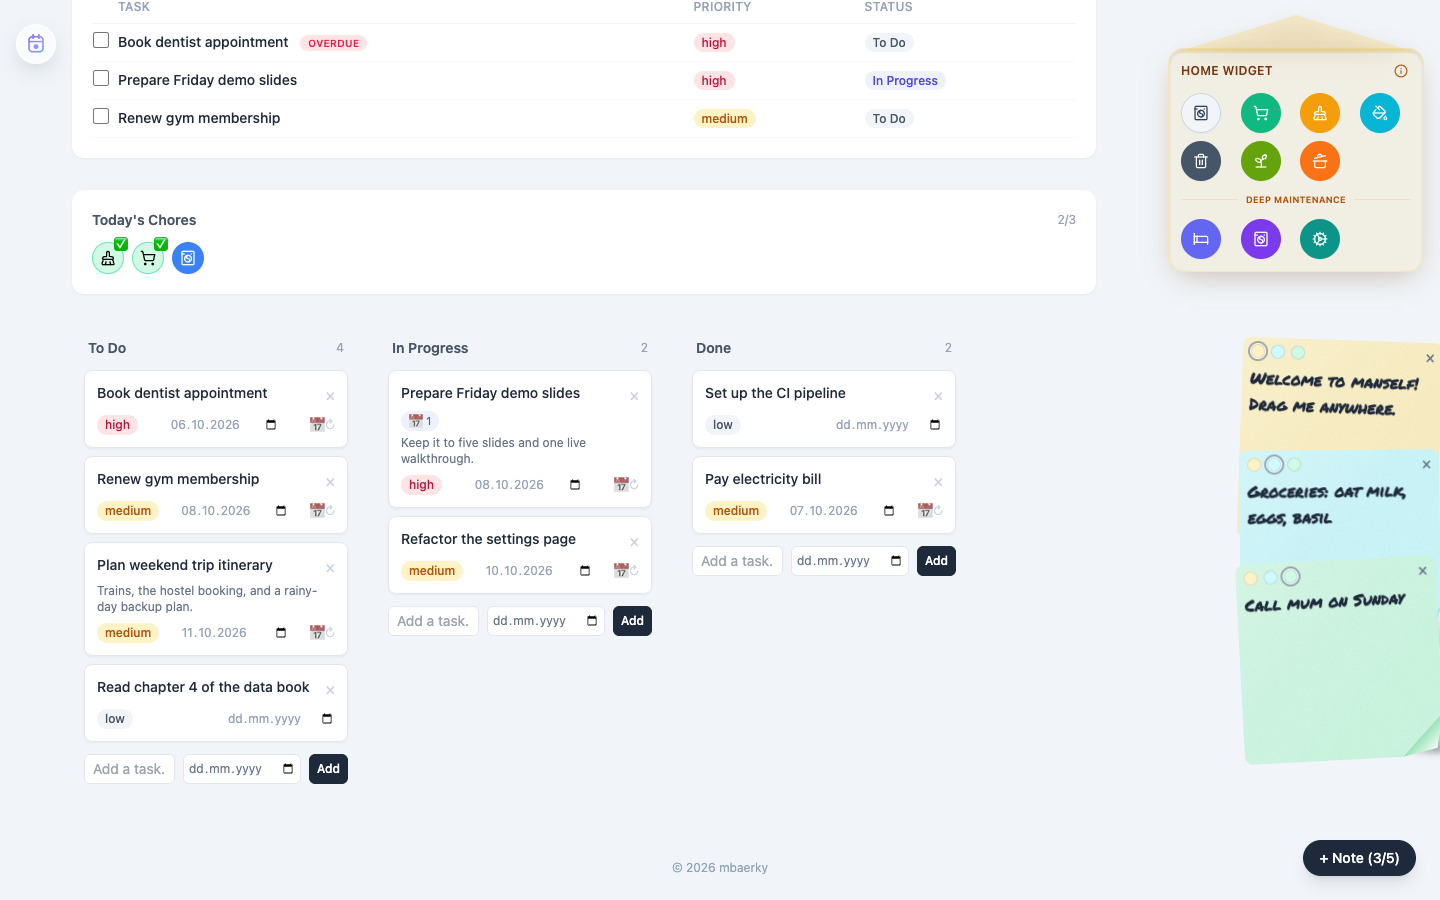
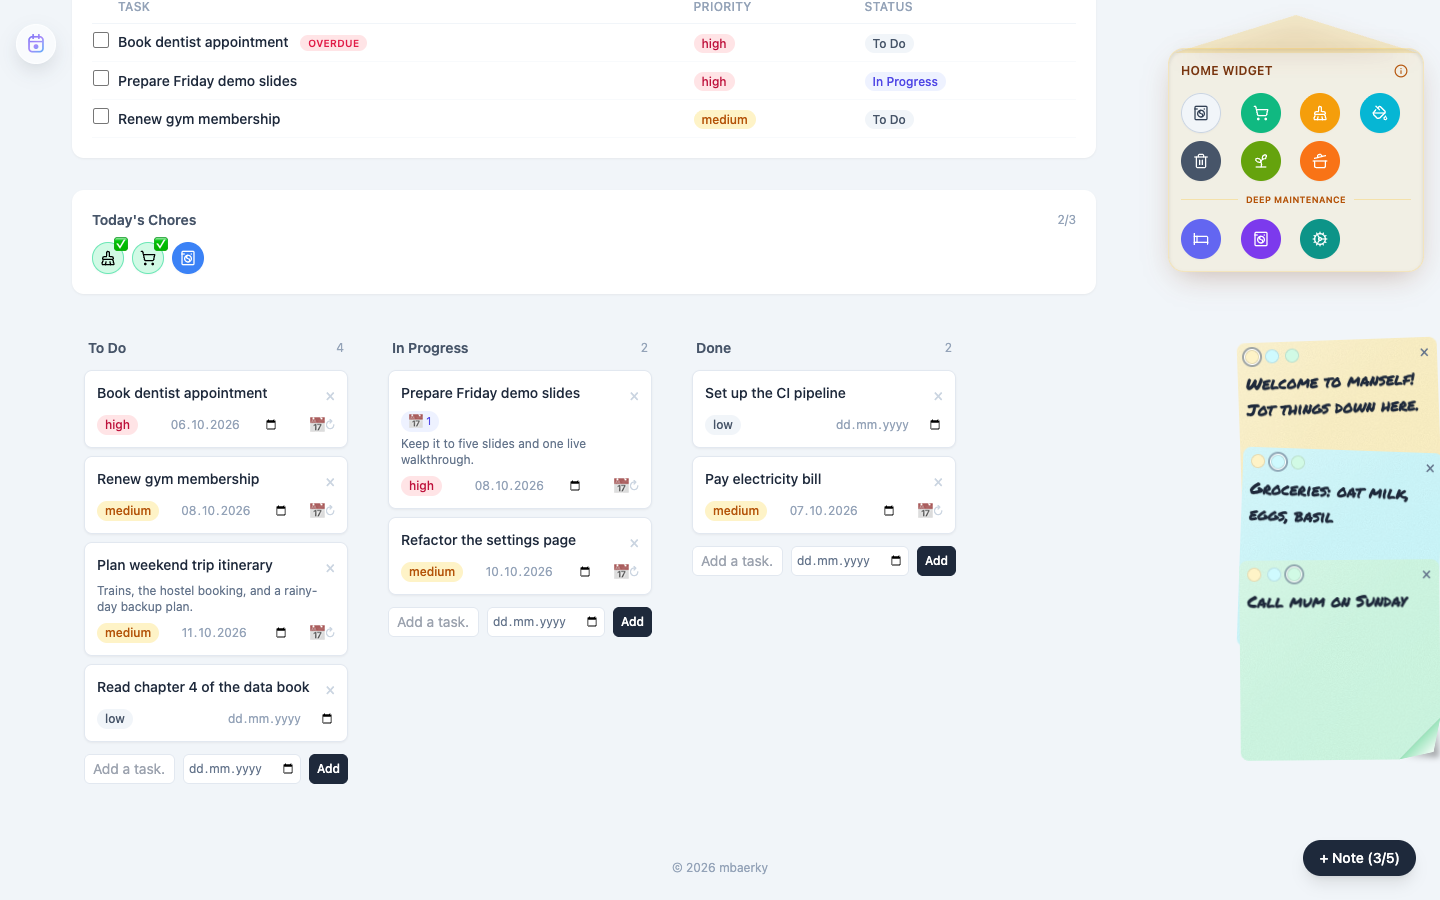
Keep sticky notes from covering the page on screens under 1440px (#64)
Floating notes are pinned to the right edge, which only has room beside the
centred content from 1440px up. Below that they now use the bottom-sheet list
that phones already had. The demo's welcome note no longer says 'drag me'.
README and screenshots updated.

diff --git a/frontend/src/components/dashboard/StickyNotesManager.vue b/frontend/src/components/dashboard/StickyNotesManager.vue
@@ -7,15 +7,19 @@ import { useConfirm } from '../../composables/useConfirm.js';
 const noteStore = useNoteStore();
 const { confirm } = useConfirm();
 
-// Free-floating positioned notes don't fit a phone screen - below Tailwind's
-// sm breakpoint (640px, unmodified default) notes render as a stacked list
-// in a bottom sheet instead (see StickyNote.vue's `stacked` prop).
-const isMobile = ref(false);
+// Free-floating notes sit on top of the page, so they only make sense where
+// there is empty space for them: a 200px note against the right edge clears
+// the (up to 1024px wide, centred) content from 1440px up. Below that - phones,
+// tablets and small laptops - notes are a stacked list in a bottom sheet
+// instead (see StickyNote.vue's `stacked` prop), so nothing is ever covered.
+const FLOATING_NOTES_MIN_WIDTH = 1440;
+
+const isSheetMode = ref(false);
 const panelOpen = ref(false);
 let mql = null;
 
-function updateIsMobile(event) {
-  isMobile.value = event.matches;
+function updateSheetMode(event) {
+  isSheetMode.value = event.matches;
 }
 
 // An empty note has nothing to lose, so it goes without asking.
@@ -33,18 +37,18 @@ async function requestRemoveNote(note) {
 
 onMounted(() => {
   noteStore.fetchNotes();
-  mql = window.matchMedia('(max-width: 639.98px)');
-  isMobile.value = mql.matches;
-  mql.addEventListener('change', updateIsMobile);
+  mql = window.matchMedia(`(max-width: ${FLOATING_NOTES_MIN_WIDTH - 0.02}px)`);
+  isSheetMode.value = mql.matches;
+  mql.addEventListener('change', updateSheetMode);
 });
 
-onUnmounted(() => mql?.removeEventListener('change', updateIsMobile));
+onUnmounted(() => mql?.removeEventListener('change', updateSheetMode));
 </script>
 
 <template>
   <Teleport to="body">
     <!-- Desktop/tablet: free-floating, draggable notes -->
-    <div v-if="!isMobile" class="sticky-notes-layer">
+    <div v-if="!isSheetMode" class="sticky-notes-layer">
       <button
         type="button"
         class="sticky-notes-layer__add"
@@ -67,7 +71,7 @@ onUnmounted(() => mql?.removeEventListener('change', updateIsMobile));
       />
     </div>
 
-    <!-- Mobile: stacked bottom sheet, no free positioning/dragging -->
+    <!-- Narrower screens: stacked bottom sheet, no free positioning/dragging -->
     <template v-else>
       <button type="button" class="sticky-notes-toggle" @click="panelOpen = !panelOpen">
         🗒 Notes ({{ noteStore.notes.length }}/5)

diff --git a/frontend/src/components/dashboard/StickyNotesManager.test.js b/frontend/src/components/dashboard/StickyNotesManager.test.js
@@ -1,0 +1,51 @@
+import { afterEach, beforeEach, describe, expect, it, vi } from 'vitest';
+import { flushPromises, mount } from '@vue/test-utils';
+import { createPinia, setActivePinia } from 'pinia';
+
+const list = vi.hoisted(() => vi.fn());
+vi.mock('../../services/noteService.js', () => ({
+  noteService: { list, create: vi.fn(), update: vi.fn(), remove: vi.fn() },
+}));
+
+const { default: StickyNotesManager } = await import('./StickyNotesManager.vue');
+
+const NOTES = [{ id: 1, text: 'hello', color: 'yellow', positionX: 9999, positionY: 340, zIndex: 1 }];
+
+// jsdom has no matchMedia; fake one that answers for a given viewport width.
+function setViewportWidth(width) {
+  vi.stubGlobal('matchMedia', (query) => {
+    const max = Number(/max-width:\s*([\d.]+)px/.exec(query)?.[1]);
+    return { matches: width <= max, addEventListener: () => {}, removeEventListener: () => {} };
+  });
+}
+
+async function mountManager() {
+  const wrapper = mount(StickyNotesManager, { global: { stubs: { teleport: true } } });
+  await flushPromises();
+  return wrapper;
+}
+
+beforeEach(() => {
+  setActivePinia(createPinia());
+  list.mockResolvedValue(NOTES);
+});
+
+afterEach(() => vi.unstubAllGlobals());
+
+describe('StickyNotesManager layout', () => {
+  it('floats the notes freely on screens 1440px wide and up', async () => {
+    setViewportWidth(1440);
+    const wrapper = await mountManager();
+
+    expect(wrapper.find('.sticky-notes-layer').exists()).toBe(true);
+    expect(wrapper.find('.sticky-notes-toggle').exists()).toBe(false);
+  });
+
+  it.each([390, 1024, 1366, 1439])('uses the bottom-sheet list at %ipx so notes never cover the page', async (width) => {
+    setViewportWidth(width);
+    const wrapper = await mountManager();
+
+    expect(wrapper.find('.sticky-notes-layer').exists()).toBe(false);
+    expect(wrapper.find('.sticky-notes-toggle').exists()).toBe(true);
+  });
+});

diff --git a/backend/src/services/demo.service.js b/backend/src/services/demo.service.js
@@ -71,7 +71,7 @@ function buildEvents(demoSlidesTaskId) {
 // position to the viewport, so this pins the pile to the right-hand edge at
 // any screen width instead of covering the welcome message in the middle.
 const NOTES = [
-  { text: 'Welcome to manself! Drag me anywhere.', color: 'yellow', positionX: 9999, positionY: 340 },
+  { text: 'Welcome to manself! Jot things down here.', color: 'yellow', positionX: 9999, positionY: 340 },
   { text: 'Groceries: oat milk, eggs, basil', color: 'cyan', positionX: 9999, positionY: 450 },
   { text: 'Call mum on Sunday', color: 'green', positionX: 9999, positionY: 560 },
 ];

diff --git a/frontend/src/components/dashboard/StickyNote.vue b/frontend/src/components/dashboard/StickyNote.vue
@@ -4,7 +4,7 @@ import { usePointerDrag } from '../../composables/usePointerDrag.js';
 
 const props = defineProps({
   note: { type: Object, required: true },
-  // True on narrow viewports, where notes render in a stacked list instead
+  // True below 1440px, where notes render in a stacked list instead
   // of free-floating - see StickyNotesManager.vue. Stacked notes don't
   // drag, tilt, or track z-index; there's nothing to overlap in a list.
   stacked: { type: Boolean, default: false },

diff --git a/frontend/src/views/LandingView.vue b/frontend/src/views/LandingView.vue
@@ -30,7 +30,7 @@ const features = [
   {
     icon: StickyNote,
     title: 'Sticky notes',
-    text: 'Pin quick thoughts anywhere on screen. On a phone they tuck away into a tidy bottom sheet.',
+    text: 'Pin quick thoughts anywhere on a big screen. On smaller ones they tuck away into a tidy bottom sheet.',
   },
   {
     icon: CloudSun,

diff --git a/README.md b/README.md
@@ -14,7 +14,7 @@ A two-minute tour:
 2. **Chores.** Drag an icon from the *Home Widget* (top right) onto a day. On a chore badge: click toggles done, double-click removes it (an *Undo* toast appears), right-click cycles repeat (daily / weekly).
 3. **Celebration.** Today is one chore short of done. Click the laundry badge in *Today's Chores* to finish the day and get the confetti.
 4. **Kanban board.** Drag *Prepare Friday demo slides* into **Done**. Deleting a task asks for confirmation first.
-5. **Sticky notes.** Drag a note anywhere, or add one with **+ Note**. Below 640 px wide they turn into a bottom sheet.
+5. **Sticky notes.** On wide screens, drag a note anywhere or add one with **+ Note**. Below 1440 px wide (phones, tablets, small laptops) they turn into a bottom sheet, so they never cover the page.
 6. **Weather.** The card uses your browser location. If you block it, it falls back to a saved city, then to Berlin.
 7. **Settings.** Open the menu (top-left logo), then **Settings**, to change the name or weather city. Email, password and deletion are locked on the demo account, and the page says so.
 
@@ -164,7 +164,7 @@ End-to-end functional, not just a skeleton:
 - **Calendar**: compact and full-month views, event CRUD, optional task linking
 - **Kanban board**: task CRUD, drag-and-drop reordering across columns (mouse and touch, via Pointer Events)
 - **Chores widget**: drag-to-schedule onto a calendar day (mouse and touch), daily/weekly recurrence
-- **Sticky notes**: free-drag positioning on desktop/tablet, a stacked bottom-sheet list on mobile (no free positioning there - not enough room)
+- **Sticky notes**: free-drag positioning from 1440 px wide up, a stacked bottom-sheet list below that (no free positioning there - they would cover the page)
 - **Today's Todos**: due-today and overdue tasks, inline complete toggle
 - **Feedback**: toast notifications, confirm dialogs before destructive actions, and an *Undo* for removed chores; helpful empty states
 - **Public site**: landing page with a product preview, 404 page, one-click demo login
